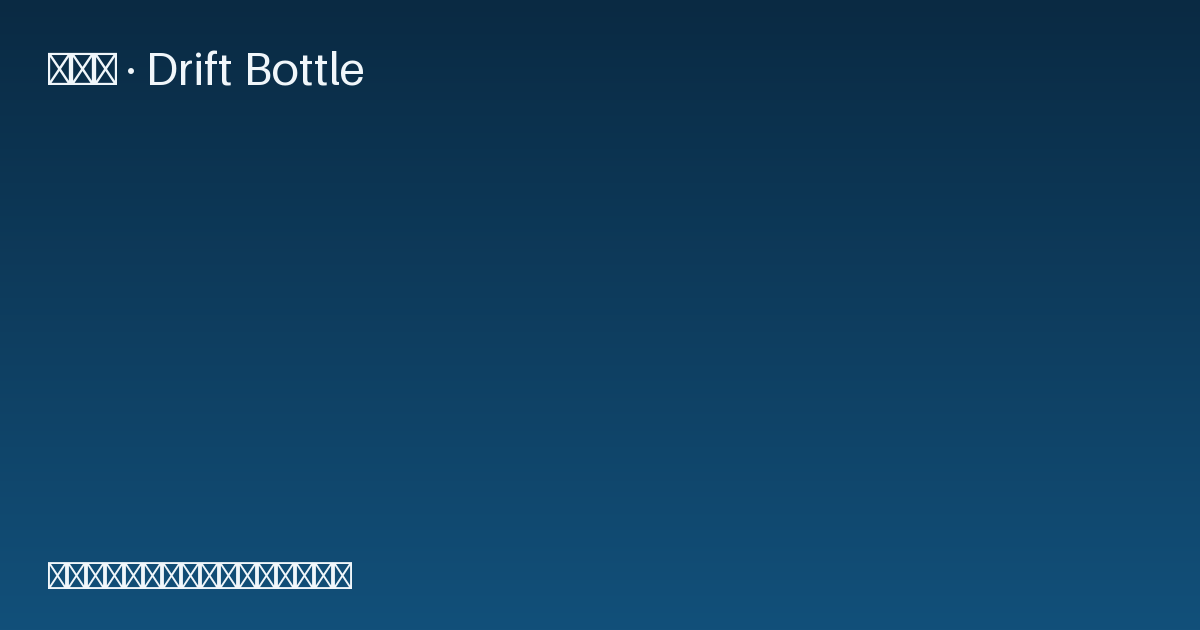
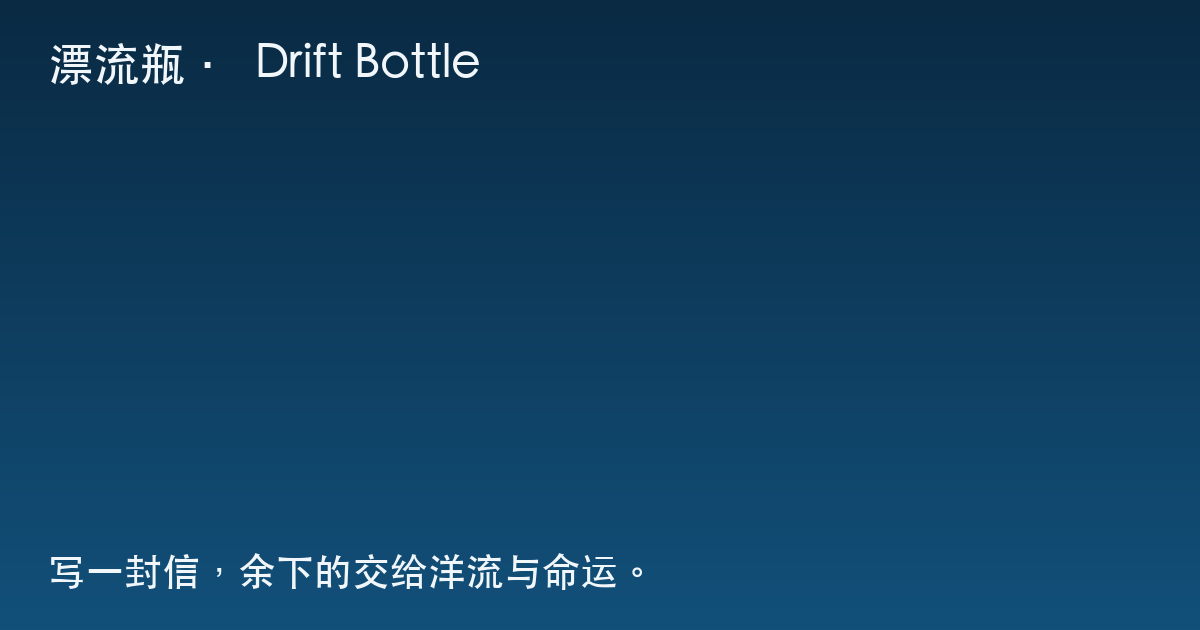
fix(og): 补 macOS CJK 字体 fallback，消除默认卡中文豆腐块
_FONT_CANDIDATES 里的 PingFang.ttc 在本机不存在，load_font() 退化到
Pillow 默认位图字体，导致渲染出的中文（包括已提交的 og-default.png）
显示豆腐块。Noto CJK 路径保持第一优先（CI/Linux 用），追加
STHeiti Medium / Songti / Hiragino Sans GB 作为本机可用的 macOS 兜底，
并重新生成 og-default.png。

Changed region(s): [[0.0308, 0.8746, 0.5242, 0.9349], [0.0308, 0.0603, 0.4008, 0.1508]]

diff --git a/simulation/og_card.py b/simulation/og_card.py
@@ -29,6 +29,9 @@ _FONT_CANDIDATES = [
     "/usr/share/fonts/opentype/noto/NotoSansCJK-Bold.ttc",
     "/usr/share/fonts/opentype/noto/NotoSansCJK-Regular.ttc",
     "/System/Library/Fonts/PingFang.ttc",
+    "/System/Library/Fonts/STHeiti Medium.ttc",
+    "/System/Library/Fonts/Supplemental/Songti.ttc",
+    "/System/Library/Fonts/Hiragino Sans GB.ttc",
 ]
 
 
